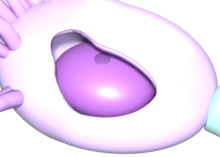
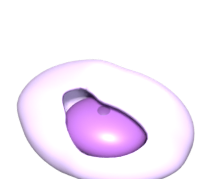
同尺度图：每个细胞完整出镜
- 每张图留出边距（细胞占画面 81%），像素与微米的映射不变
- 底部齐平、上方留白，七个标本站在同一条基线上
- 神经元与精子只渲染被测量的主体，并在图注里写明「图中只画胞体/头部」

diff --git a/size-chart.js b/size-chart.js
@@ -12,6 +12,12 @@
 import { SHAPES } from './size-shapes.js';
 
 const PIXELS_PER_MICRON = 5.2;
+//: what the picture leaves out, for the two specimens whose measured part is only
+//: a fraction of the real cell — the renders show that part alone
+const CROPPED = {
+  neuron: '图中只画胞体',
+  'sperm-cell': '图中只画头部',
+};
 //: every silhouette stands on this ground line, in µm
 const BASELINE = 22;
 const CANVAS_HEIGHT = 26;
@@ -55,8 +61,9 @@ export function createSizeChart(container, specimens) {
     }, { once: true });
     item.append(img);
 
+    const crop = CROPPED[id] ? `<i>${CROPPED[id]}</i>` : '';
     const caption = document.createElement('figcaption');
-    caption.innerHTML = `<b>${cell.zh}</b><span>${size.real} ${size.unit}</span>`
+    caption.innerHTML = `<b>${cell.zh}</b><span>${size.real} ${size.unit}</span>${crop}`
       + (size.note ? `<em>${size.note}</em>` : '');
     item.append(caption);
     row.append(item);

diff --git a/refinements.css b/refinements.css
@@ -192,6 +192,7 @@ svg.focus-leader path { stroke-width: 1.25; }
 .size-item figcaption b { display: block; color: var(--ink); font-weight: 600; }
 .size-item figcaption span { display: block; color: var(--ink-faint); font-size: 0.72rem; font-variant-numeric: tabular-nums; }
 .size-item figcaption em { display: block; margin-top: 0.25rem; font-style: normal; font-size: 0.68rem; color: var(--ink-faint); }
+.size-item figcaption i { display: block; margin-top: 0.15rem; font-style: normal; font-size: 0.68rem; color: #a4503f; }
 
 /* the anatomy: flat fills from the specimen palette, one soft tone each */
 .size-outline { fill: color-mix(in oklab, var(--cell-color) 82%, #fff); stroke: color-mix(in oklab, var(--cell-color) 60%, #5c4a55); stroke-width: 0.28; }

diff --git a/tests/content.test.js b/tests/content.test.js
@@ -306,6 +306,10 @@ test('every comparable specimen has its lineup render', () => {
   assert.match(renderer, /PIXELS_PER_MICRON/, 'the renderer must fix one scale for every specimen');
   assert.match(renderer, /view_layer\.update\(\)/,
     'Blender caches matrix_world; without an update the frame is computed against a stale camera');
+  assert.match(renderer, /CROP_TO_STRUCTURE/,
+    'the two specimens whose processes run off any true-scale frame must render the measured part only');
+  assert.match(renderer, /sensor_fit/,
+    'ortho_scale has to keep meaning frame width, or tall pictures break the micrometre mapping');
 });
 
 test('the share of structures that are membranes is stated, not implied', () => {

diff --git a/tools/render_lineup.py b/tools/render_lineup.py
@@ -28,8 +28,25 @@ import studio  # noqa: E402
 ROOT = Path(__file__).resolve().parent.parent
 #: pixels per micrometre, the same for every specimen
 PIXELS_PER_MICRON = 11.0
+#: air around each cell, as a fraction of its own width. The frame is still
+#: exactly ``real * PIXELS_PER_MICRON`` pixels wide, so the cell occupies
+#: 1/MARGIN of it and the page needs no extra bookkeeping: one micrometre stays
+#: PIXELS_PER_MICRON/MARGIN pixels inside the image.
+MARGIN = 1.24
+#: air above a cell, relative to its own height; the bottom is flush, so every
+#: image stands on its own bottom edge and the row lines up on one ground line
+TOP_MARGIN = 1.14
 #: structures that belong to the named one and follow its highlight
 AUXILIARY = {"nucleolus"}
+#: Specimens whose declared structure is only part of the model. A real axon is a
+#: thousand times its soma and a flagellum some ten times its head, so drawing the
+#: whole cell at true scale would leave the measured part a speck. These render the
+#: measured part alone — a complete cell in frame, with the page's caption saying
+#: what was left out.
+CROP_TO_STRUCTURE = {
+    "neuron": {"soma", "nucleus", "nucleolus"},
+    "sperm-cell": {"nucleus", "acrosome"},
+}
 #: The same three-quarter-from-above angles the catalogue thumbnails use. A
 #: shallow side view turns the plant cell into a closed box and hides the section
 #: opening; these show the inside, which is the whole reason the models are cut.
@@ -59,6 +76,14 @@ def main() -> None:
     specimen = Path(blend).stem
 
     bpy.ops.wm.open_mainfile(filepath=str(ROOT / blend))
+    keep = CROP_TO_STRUCTURE.get(specimen)
+    if keep:
+        # hide the parts that would otherwise run off the frame, so the picture
+        # shows one whole cell rather than a slice of one
+        for obj in bpy.context.scene.objects:
+            if obj.type == "MESH" and obj.get("organelle") not in keep:
+                obj.hide_render = True
+
     objects = structure_objects(structure)
     if not objects:
         raise SystemExit(f"{blend}: no mesh tagged as {structure}")
@@ -95,13 +120,25 @@ def main() -> None:
     if span.x <= 0:
         raise SystemExit(f"{blend}: {structure} projects to nothing")
 
-    # the projected width is the declared real size; everything else follows
+    # the projected width is the declared real size, plus the margin; everything
+    # else follows. sensor_fit keeps ortho_scale meaning the frame *width*, which
+    # it would otherwise stop doing the moment an image is taller than it is wide.
     scene = bpy.context.scene
-    scene.render.resolution_x = max(24, round(real * PIXELS_PER_MICRON))
-    scene.render.resolution_y = max(24, round(real * PIXELS_PER_MICRON * span.y / span.x))
-    data.ortho_scale = span.x
-    offset = camera.matrix_world.to_3x3() @ Vector(((low.x + high.x) / 2, (low.y + high.y) / 2, 0.0))
-    camera.location -= offset
+    data.sensor_fit = "HORIZONTAL"
+    data.ortho_scale = span.x * MARGIN
+    scene.render.resolution_x = max(32, round(real * PIXELS_PER_MICRON))
+    scene.render.resolution_y = max(32, round(real * PIXELS_PER_MICRON * span.y * TOP_MARGIN / span.x))
+
+    # Lay the cell on the bottom edge of the frame and give it air above and to the
+    # sides. A uniform margin would leave the small cells floating higher than the
+    # large ones, and the row is supposed to stand on one ground line.
+    frame_height = data.ortho_scale * scene.render.resolution_y / scene.render.resolution_x
+    camera_shift = camera.matrix_world.to_3x3() @ Vector((
+        (low.x + high.x) / 2,
+        (low.y + high.y) / 2 - (-frame_height / 2 + span.y),
+        0.0,
+    ))
+    camera.location -= camera_shift
     bpy.context.view_layer.update()
 
     studio._add_light(scene, "Key", camera.location + Vector((-3.4, 4.2, 3.0)), centre, 2.3, 4.0)
